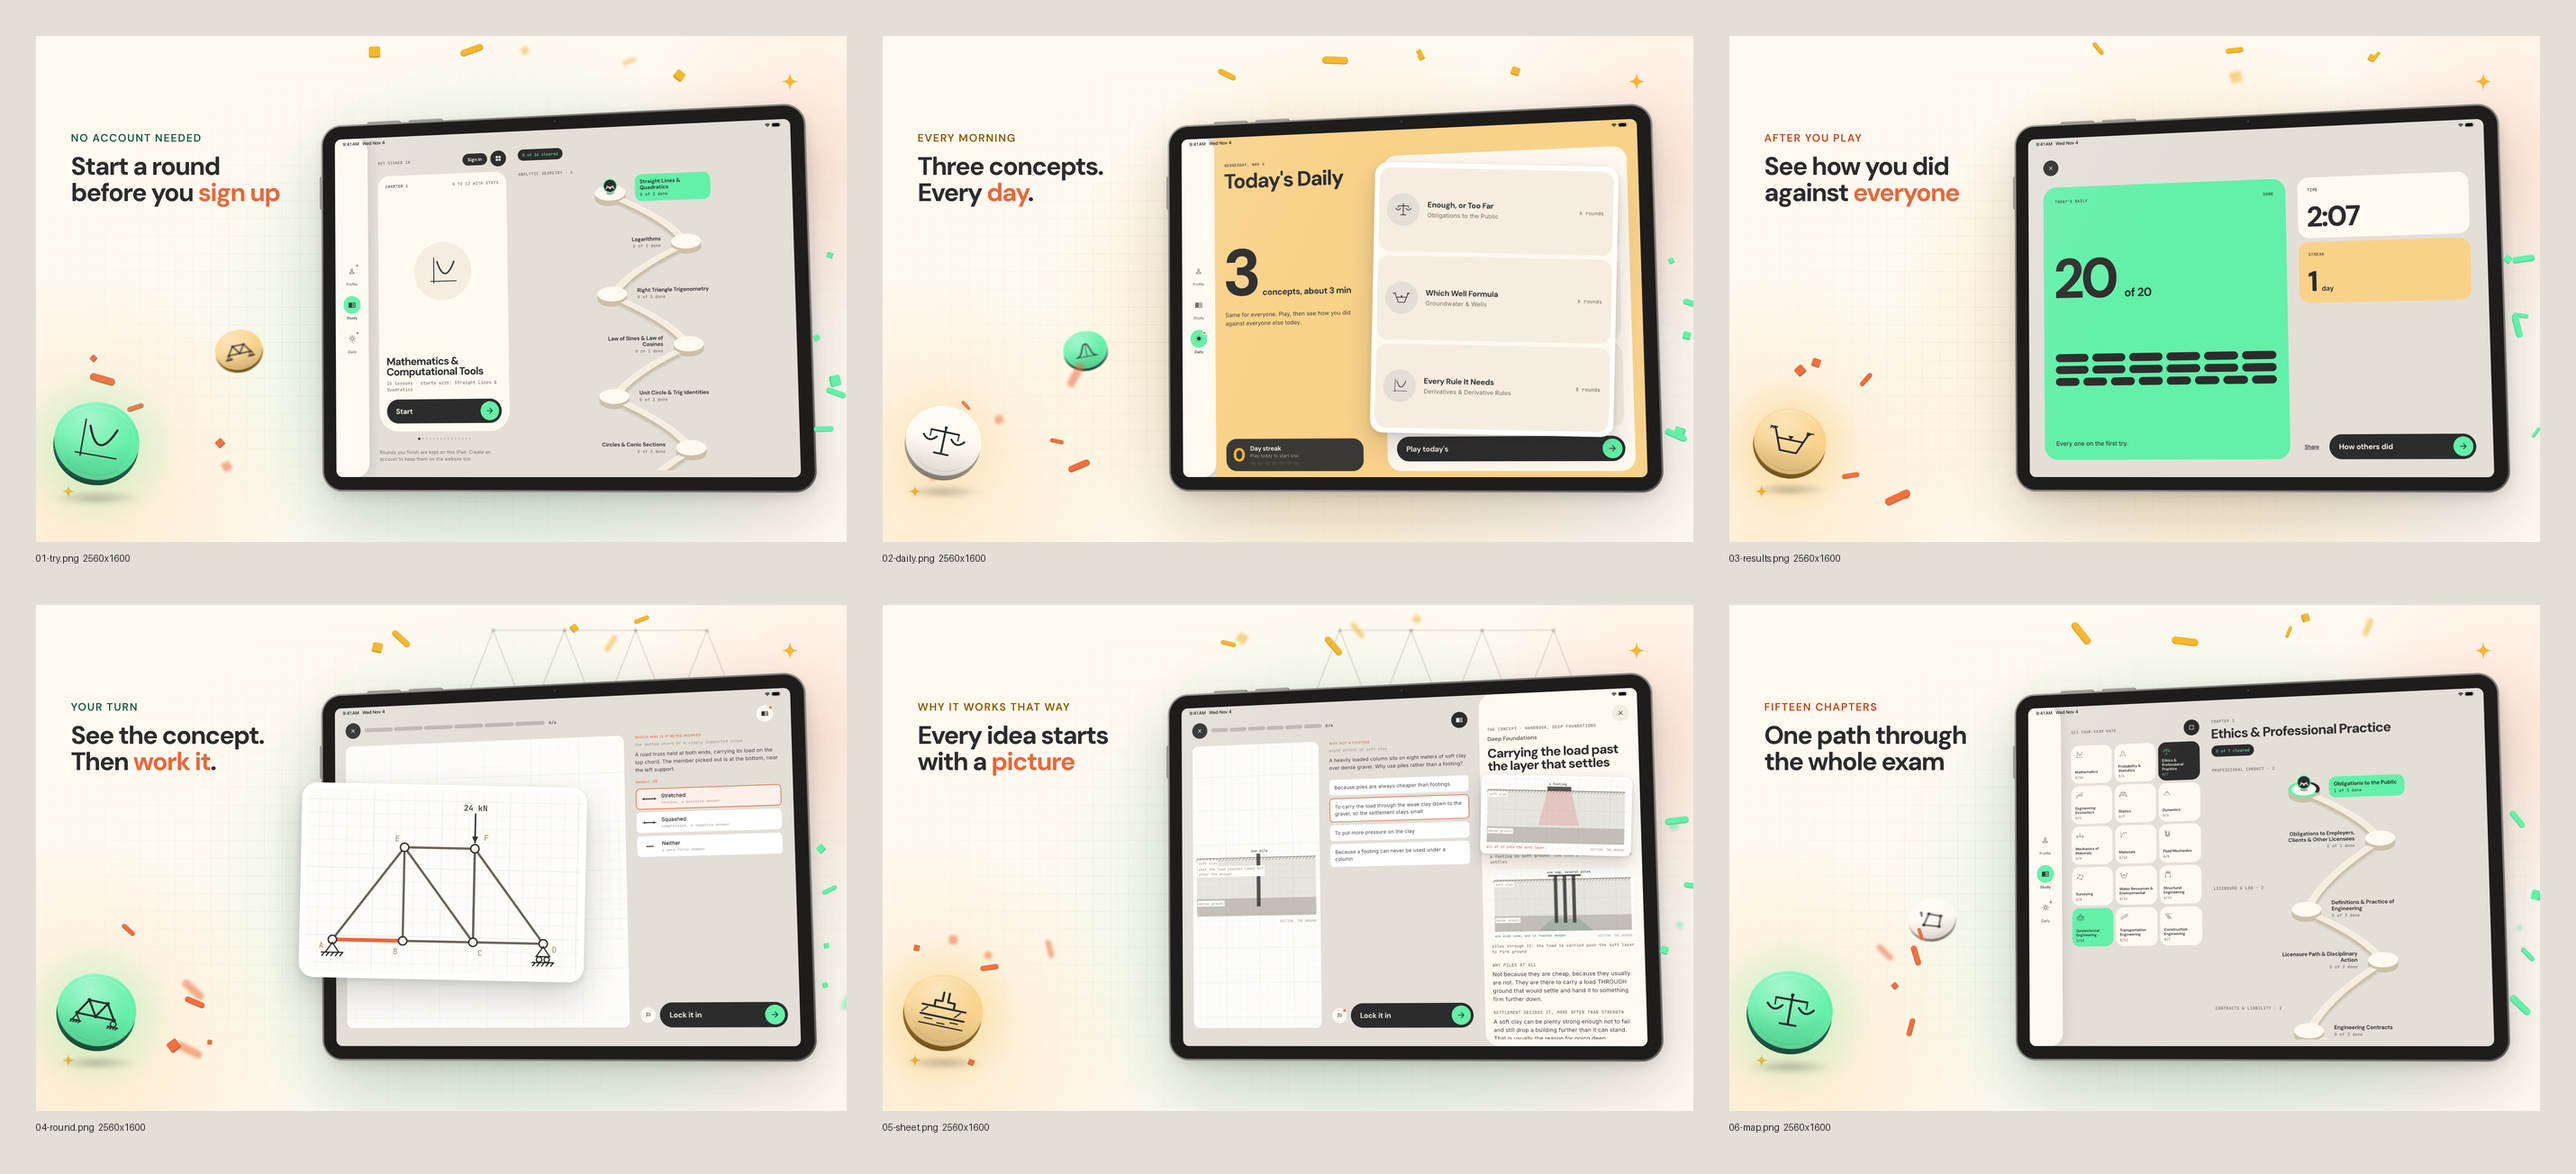
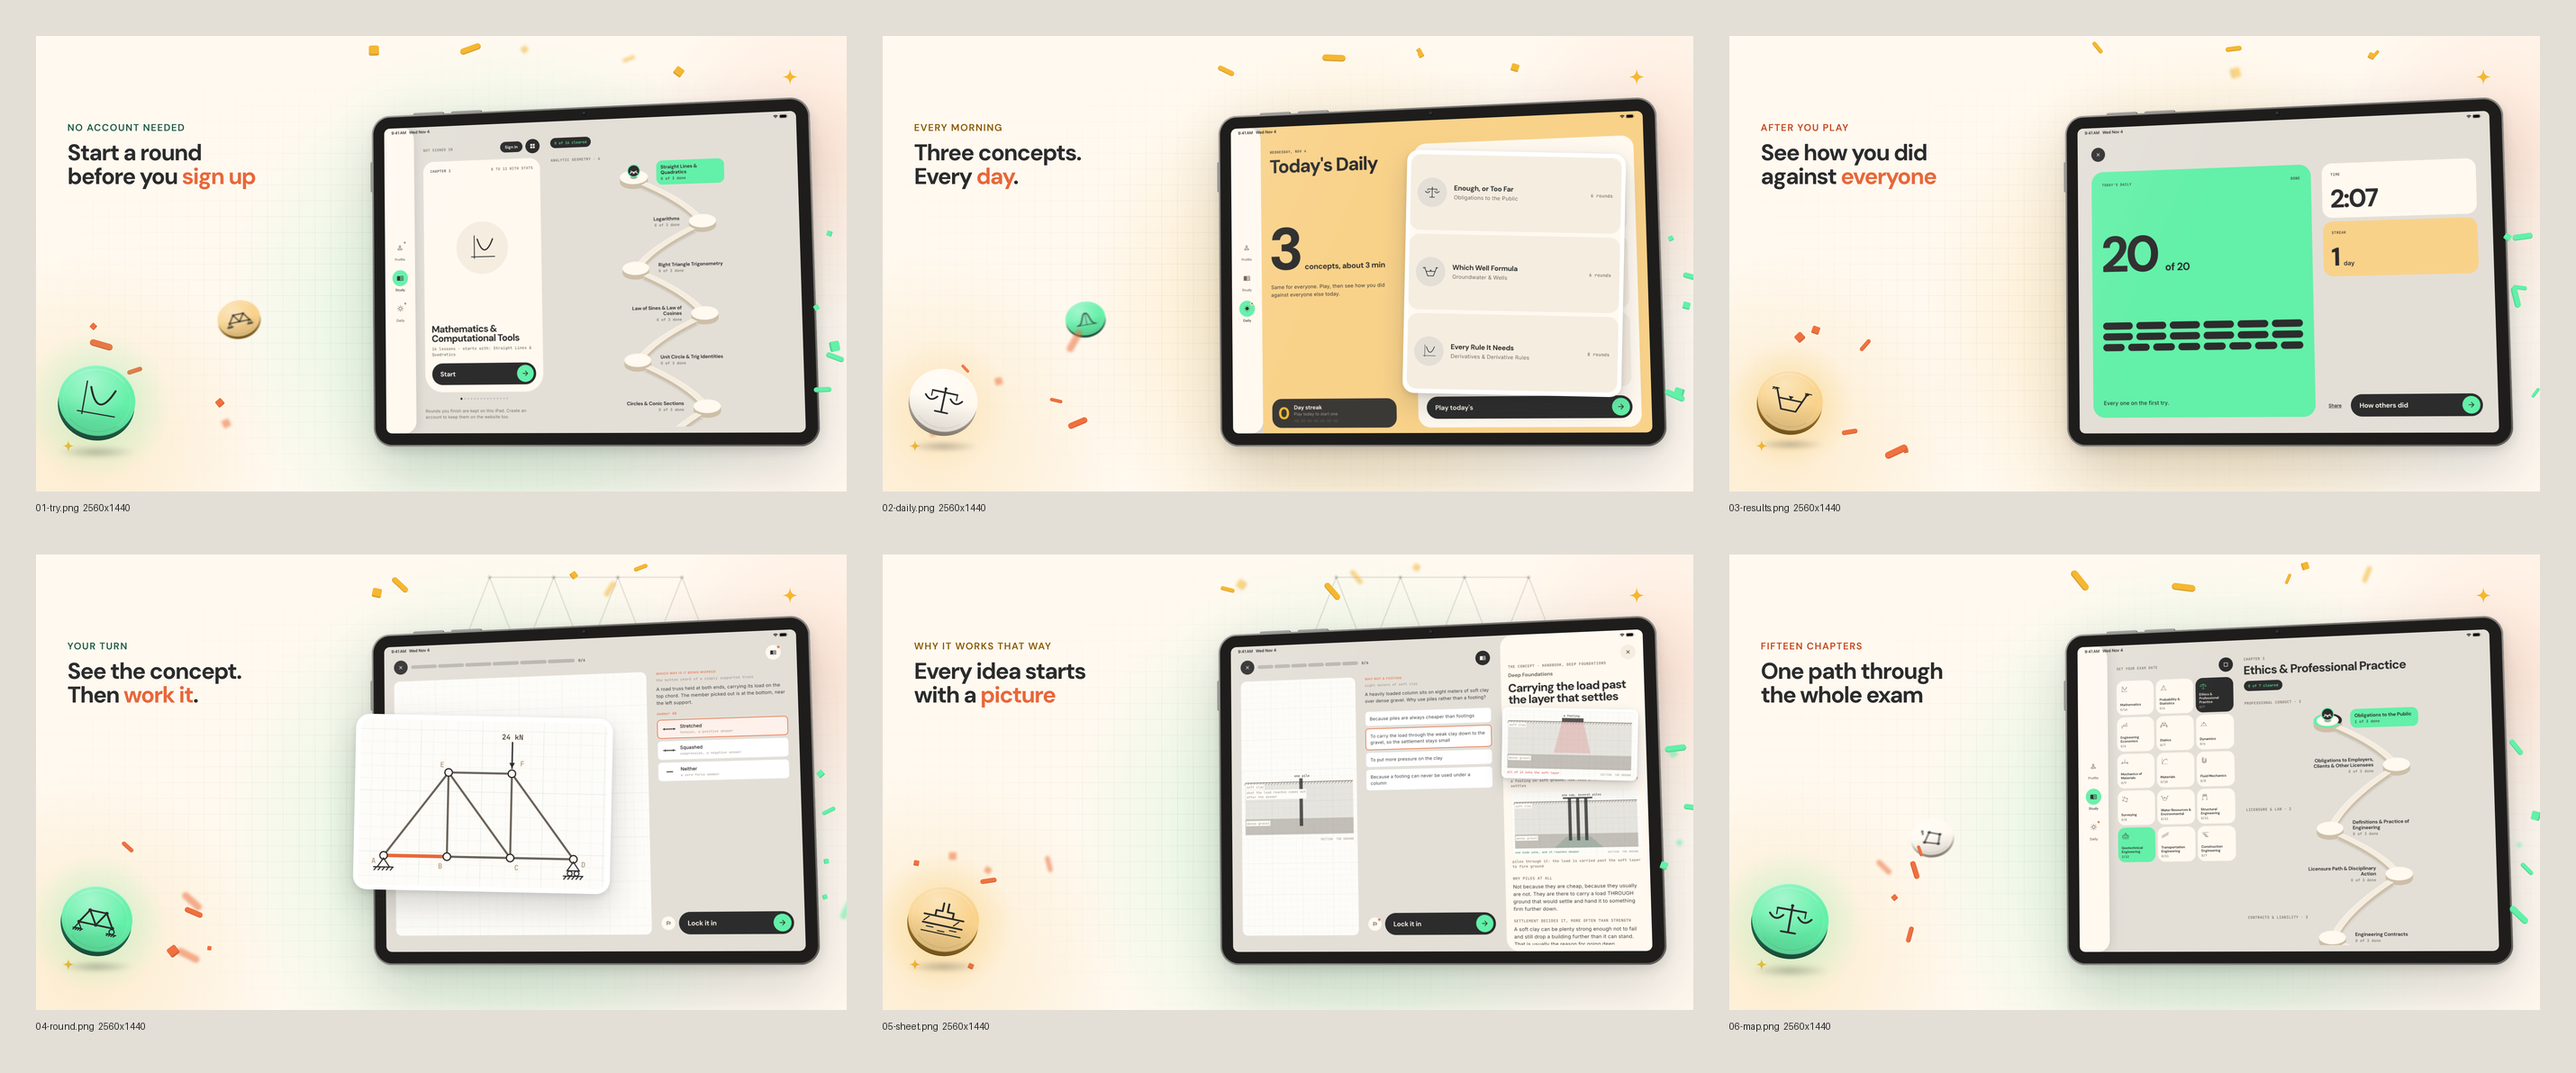
Play tablet screenshots at 16:9, 1.4.0 release notes, PACKS flag in the release build steps

diff --git a/mobile/design/appstore/ipad/build.py b/mobile/design/appstore/ipad/build.py
@@ -21,8 +21,8 @@ device changes, from a phone to a tablet.
 
 Outputs:
     design/appstore/ipad/out/      2752 x 2064, App Store 13-inch iPad
-    design/play/tablet/7in/        1920 x 1200, Play 7-inch tablet
-    design/play/tablet/10in/       2560 x 1600, Play 10-inch tablet
+    design/play/tablet/7in/        1920 x 1080, Play 7-inch tablet (Play takes 16:9 only)
+    design/play/tablet/10in/       2560 x 1440, Play 10-inch tablet
     contact sheets beside each
 """
 import math
@@ -390,7 +390,7 @@ def lifted(name, x, y, w, rot=0, z=60, key=None, finger=True):
 def layout(w, h):
     """Where the words and the tablet go. On a 4:3 canvas (the iPad's own
     shape) the headline sits above the tablet, as on the phone set; on Play's
-    16:10 canvases there is width to spare and not height, so the words sit
+    16:9 canvases there is width to spare and not height, so the words sit
     to the left of it."""
     if w / h < 1.45:
         u = h / 2064
@@ -496,8 +496,8 @@ def contact_sheet(paths, out, cols=3):
 
 STORES = [
     ('appstore', 2752, 2064, HERE / 'out'),
-    ('play-10in', 2560, 1600, MOBILE / 'design' / 'play' / 'tablet' / '10in'),
-    ('play-7in', 1920, 1200, MOBILE / 'design' / 'play' / 'tablet' / '7in'),
+    ('play-10in', 2560, 1440, MOBILE / 'design' / 'play' / 'tablet' / '10in'),
+    ('play-7in', 1920, 1080, MOBILE / 'design' / 'play' / 'tablet' / '7in'),
 ]
 
 

diff --git a/mobile/design/release-notes-1.4.0.md b/mobile/design/release-notes-1.4.0.md
@@ -1,12 +1,12 @@
 # What's new in 1.4.0
 
-Build 1699 on both stores. Each text is under 170 characters, with no price
-words, no emojis and no em dashes.
+Build 1715 on both stores. Each text stays well under the stores' limits, with
+no price words, no emojis and no em dashes.
 
 ## App Store
 
-FE4Raccoons now works on iPad, in portrait or landscape, with layouts made for the bigger screen. The chapter path is now a road between lessons that opens as you go.
+FE4Raccoons now works on iPad, in portrait or landscape. The chapter path is now a road that opens as you go, and reminders can help keep your streak alive.
 
 ## Google Play
 
-FE4Raccoons now works on Android tablets, in portrait or landscape, with layouts made for the bigger screen. The chapter path is now a road that opens as you go.
+FE4Raccoons now works on Android tablets, in portrait or landscape. The chapter path is now a road that opens as you go, and reminders can help keep your streak alive.

diff --git a/mobile/RELEASING.md b/mobile/RELEASING.md
@@ -205,7 +205,10 @@ cd mobile
 N=$(git rev-list --count HEAD)
 
 # 2. Archive. This succeeds; the IPA step inside it does not, see below.
-flutter build ipa --release --build-number=$N --dart-define=BUILD_NUMBER=$N
+# PACKS=true since 1.3.0: without it the app ignores content packs and
+# ships the old bundled content path. The Android bundle needs it too.
+flutter build ipa --release --build-number=$N --dart-define=BUILD_NUMBER=$N \
+  --dart-define=PACKS=true
 
 # 3. Export a signed IPA with MANUAL signing.
 xcodebuild -exportArchive \
